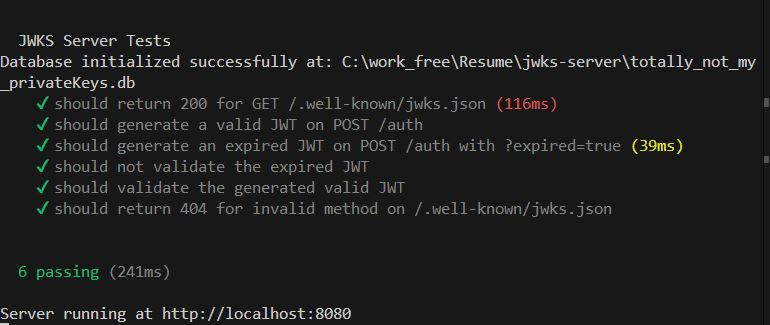
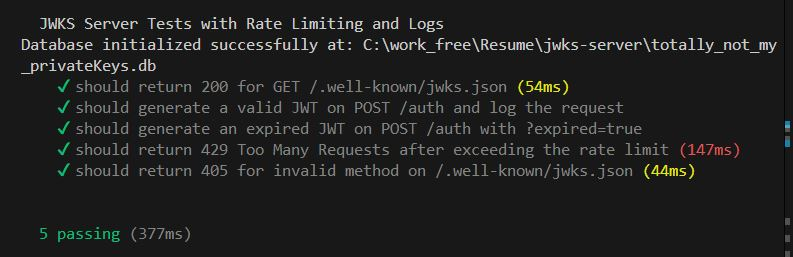
updating readme

diff --git a/README.md b/README.md
@@ -1,8 +1,8 @@
 
-## Grade
+## Grade (Project 3)
 ![grade.jpg](https://github.com/itsabiral/jwks-server/blob/main/grade.JPG?raw=true)
 
-## Test
+## Test (Project 3)
 ![Test Case](https://github.com/itsabiral/jwks-server/blob/main/tests.JPG?raw=true)
 
 # JWKS and JWT Project
@@ -10,6 +10,7 @@
 ## Overview
 
 This application provides endpoints to manage JSON Web Keys (JWKS) and issue JSON Web Tokens (JWTs) for authentication. It is built with nodejs and express, it utilizes the `jsonwebtoken` and `node-jose` libraries for handling JWTs and key management.
+Update: It manages public/private key pairs securely, and logs authentication attempts. It includes a rate limiter for enhanced security and performance.
 
 I am now using sqlite to store the tokens.
 
@@ -22,6 +23,10 @@ I am now using sqlite to store the tokens.
 - Secure interaction with SQLite to store keys.
 - Mocha and Chai for unit testing and API validation.
 - Handle HTTP methods with appropriate status codes.
+- RSA private keys are encrypted and stored in a database.
+- Allows users to register with a unique username and email.
+- Logs successful authentication requests with user ID and IP address.
+- Limits the POST /auth endpoint to 10 requests per second per IP to prevent abuse.
 
 ## Technologies Used
 
@@ -55,5 +60,12 @@ I am now using sqlite to store the tokens.
 - **URL**: `/auth`
 - **Method**: `POST`
 - **Description**: Returns a JWT for authentication. Accepts an optional query parameter expired=true to return an expired token.
+
+### 2. Registration Endpoint
+
+- **URL**: `/register`
+- **Method**: `POST`
+- **Description**: Registers a new user with a randomly generated password.
+
 
 
